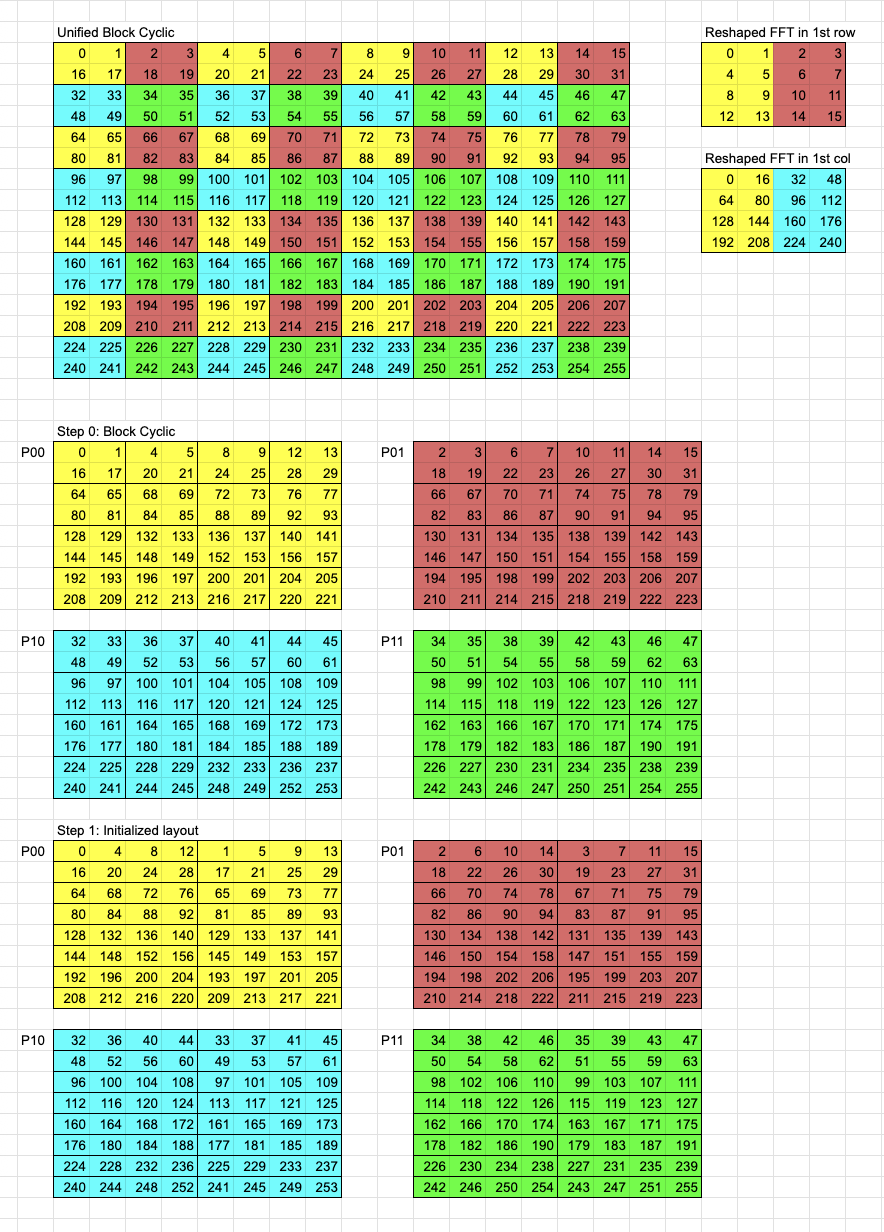
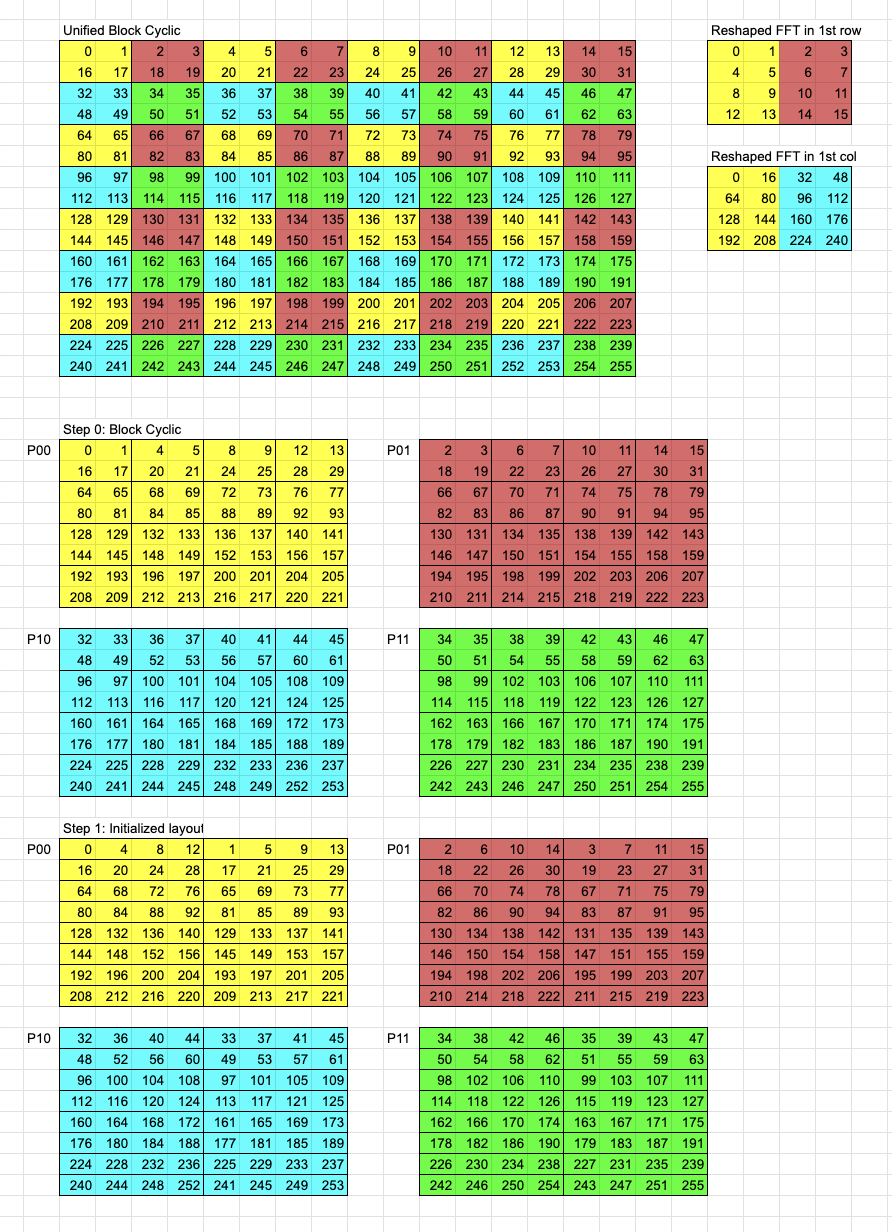
README update

Changed region(s): [[0.0, 0.0, 1.0, 1.0]]

diff --git a/README.md b/README.md
@@ -1,36 +1,35 @@
-This repository contains an implementation of the interleaved block cyclic format.
+This repository contains an implementation of the interleaved block cyclic data distribution which can be used for high performance distributed FFTs and Stencils.  This repo uses MPI and CUDA.
 
-NOTE: For information on how to benchmark see benchmark.md
-FIXME: This is out of date
+This is research code.  It is set up for benchmarking on the CMU ECE number cluster and on NERSC Perlmutter.  For detailed benchmarking instructions see `benchmark.md`.  For an example of how the code would be used in an application see `example()` in `zmodel/main.cu`.
 
-# How the data layout works
+# Interleaved Block Cyclic
 
-We start with a block cyclic distribution and then pack the ith element of all the blocks in a row together into vectors.  These vectors can be seen in Step 1 and is where we apply our stencils.  
+This is a brief explanation of the interleaved block cyclic distribution and its application to the 2D FFT. 
+
+We start with a block cyclic distribution and then pack the ith element of all the blocks in a row together into vectors.  These vectors can be seen in Step 1 and is where we apply stencils.  Note that the elements in these vectors are independent and can be thought of as abstract SIMD vectors.
 
 The 2D FFT is implemented as 2 independent 1D FFTs which we will call FFT1 and FFT2 respectively.  FFT1 is done in the rows of the original matrix while FFT2 is done in the columns of the original matrix.  FFT1 and FFT2 are further decomposed into two 1D FFTs each with twiddle factors applied in between in accordance with Cooley-Tukey.  The decomposition of FFT1 in the first row and FFT2 in the first column can be seen in the top right corner.  The row and column vectors are reshaped as matricies in accordance with the decomposition.  FFT1 is decomposed into FFT1a which is done in the columns of the new matrix and FFT1b which is done in the rows of the new matrix.  Note that the vectors we have packed in Step 1 are exactly the data needed to execute FFT1a.
 
-From here we must split the vectors in P_DIM components and pack them for the All-to-All in the rows.  After the All-to-All in the rows the data is unpacked and we apply FFT1B.  The data for FFT1B is interleaved and is executed as batch FFT.  In reality we are doing a batch of batch FFTs which is why we use CuFFTdx.  
+From here we must split the vectors in P_DIM components and pack them for the All-to-All in the rows.  After the All-to-All in the rows the data is unpacked and we apply FFT1B.  Twiddles are applied during the unpack kernel.  The data for FFT1B is interleaved and is executed as batch FFT.  In reality we are doing a batch of batch FFTs which is not supported by traditional FFT libraries and is why we use CuFFTdx.
 
-FFT2a can be executed on this same data layout before the All-to-All in the columns is needed to execute FFT2b.  Twiddles are applied between FFTXa and FFTXb.  Note that Cooley-Tukey requries a transpose between FFTXa and FFTXb which we do not implement.  This means that there is an additional layer of permutation applied to the data that the diagrams do not capture.  This makes the application of position based operators in the fourier space complicated and is why I am currently working on a symmetric version of the current implementaiton.
+At this point we then perform a repack-transpose which is a transpose fused with our original interleaving of the blocks.  This allows us to reuse the same kernels from FFT1 for FFT2.  Note that Cooley-Tukey requries a transpose between FFTXa and FFTXb which we do not implement.  This does not effect correctness but results in two layers of interleaving in the reciprocal space.  In order to help users apply elementwise operators in the reciprocal space there are indexing functions in `./zmodel/utils.h` which will convert a real space global index to a local reciprocal space index and vice versa.
 
 ![Alt text for the image](images/step1.png "Optional Title")
 ![Alt text for the image](images/step2.png "Optional Title")
 ![Alt text for the image](images/step3.png "Optional Title")
+![Alt text for the image](images/step4.png "Optional Title")
 
 # How to use
 
-This codebase requires MPI, CUDA, CuFFT, and CuFFTdx.
+This codebase requires MPI, CUDA, CuFFT, and (if you want good performance) cuFFTdx.
 
 Code for the 2D fft impelmentation can be found in `./zmodel/transforms/fft.cu`.
-Code for the 9-point laplacian can be found in `./zmodel/stencils/laplace.cu`.
-These can be run by modifying `./zmodel/main.cu` to run the appropriate test and using `make zmodel`.  It is probably easier to look at `./zmodel/stencils/dx.cu` before looking at the laplacian code.
+Code for the 5-point laplacian can be found in `./zmodel/stencils/laplace.cu`. 3D versions can be found in `./zmodel/transforms/fft3d.cu` and `./zmodel/stencils/laplace3d.cu` respectively.  These can be run by modifying `./zmodel/main.cu` to run the appropriate test and using `make zmodel`.
 
-The default make command creates 4 processes but runs the code on a single host processor.  It is set up to be run on the ECE number clusters.  `./zmodel/utils.h` contains default parameters and allow you to change the problem size or the number of processors used.  If you want to change the number of processors you will also have to update the Makefile.  N_DIM is the dimension of the total problem size which means there are N_DIM * N_DIM elements what are split across P_DIM * P_DIM processors and blocks are of size B_DIM * B_DIM.
+`./zmodel/utils.h` contains default parameters and allows you to change the problem size or the number of processors used.  If you want to change the number of processors you will also have to update the Makefile to launch the correct number of processes.  N_DIM is the dimension of the total problem size which means in the 2D case there are N_DIM * N_DIM elements which are split across P_DIM * P_DIM processors and blocks are of size B_DIM * B_DIM.
 
-The ECE number clusters do not support GPU aware MPI so it is disabled by default.
+The code can be run without cuFFTdx by disabling the correct Macros in `./zmodel/utils.h`. cuFFTdx can be installed at https://developer.nvidia.com/cufftdx-downloads.  You will need to replace the `FFTDX_INCLUDE` path in the Makefile.  Note that using this makes the compile times slow.
 
-You will likely need to install cuFFTdx (https://developer.nvidia.com/cufftdx-downloads) even though it is disabled by default.  You will need to replace the `FFTDX_INCLUDE` path.  Note that using this makes the compile times slow.
-
-This code and the data layout are still in development.  The 3D implementation is incomplete.  The datalayout is designed for nice problem shapes and sizes.  We typically test with powers of two problem size up to two steps below a blocked distribution.  The code has been tested with 4 and 16 GPUs.
+There are constraints on the values of B_DIM given P_DIM and N_DIM which will be detailed further in the future paper.
 
 Please direct all questions to cjstange@andrew.cmu.edu
